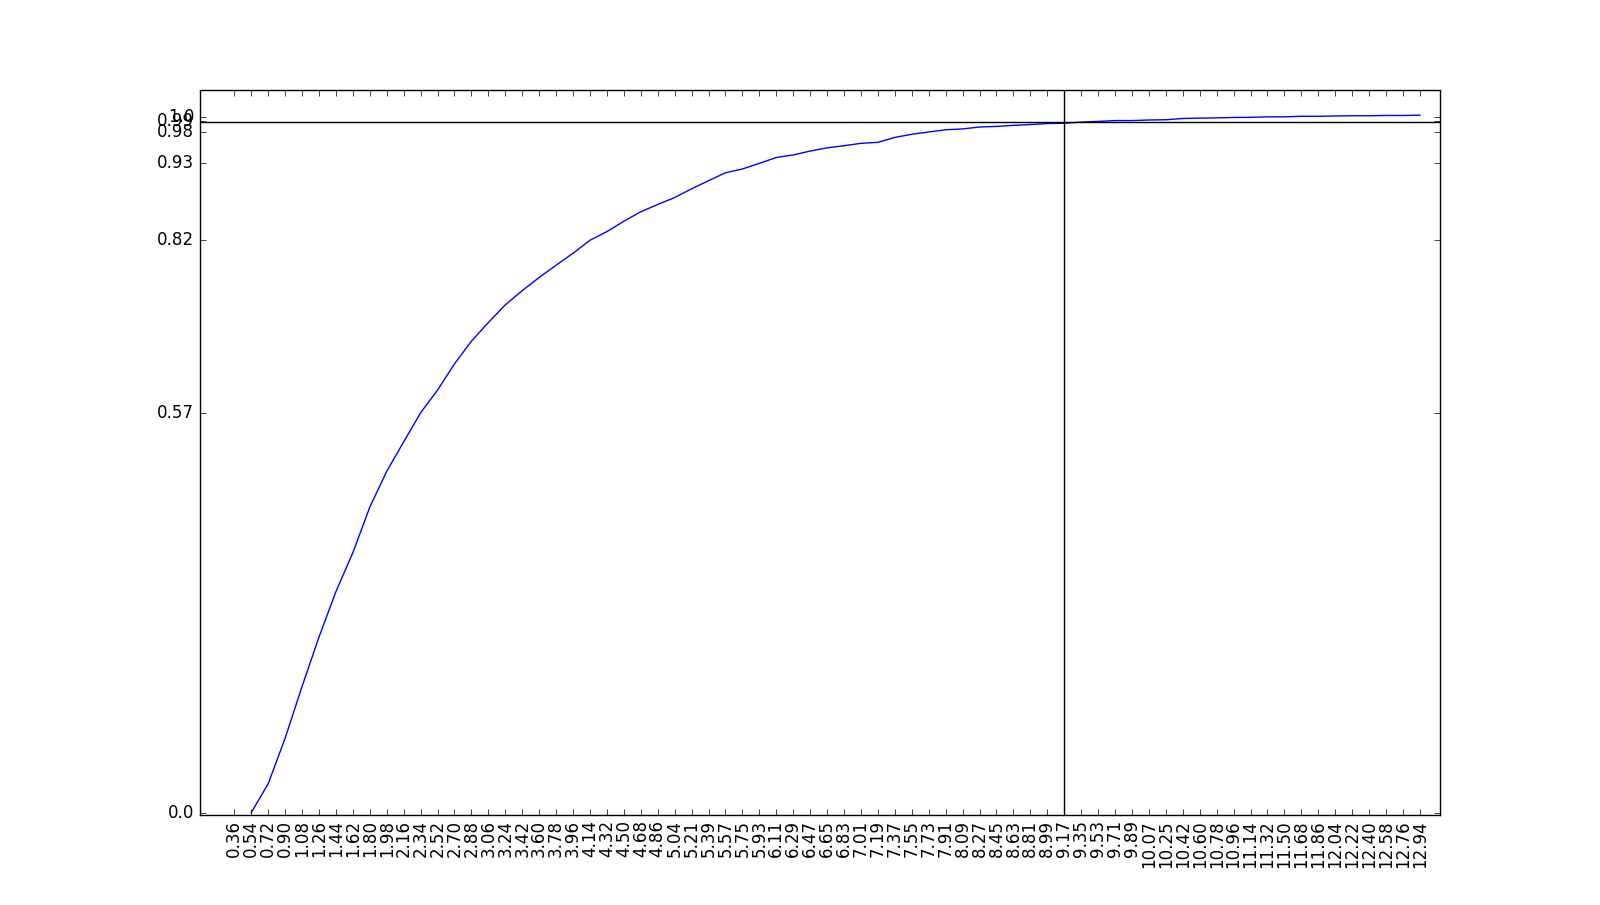
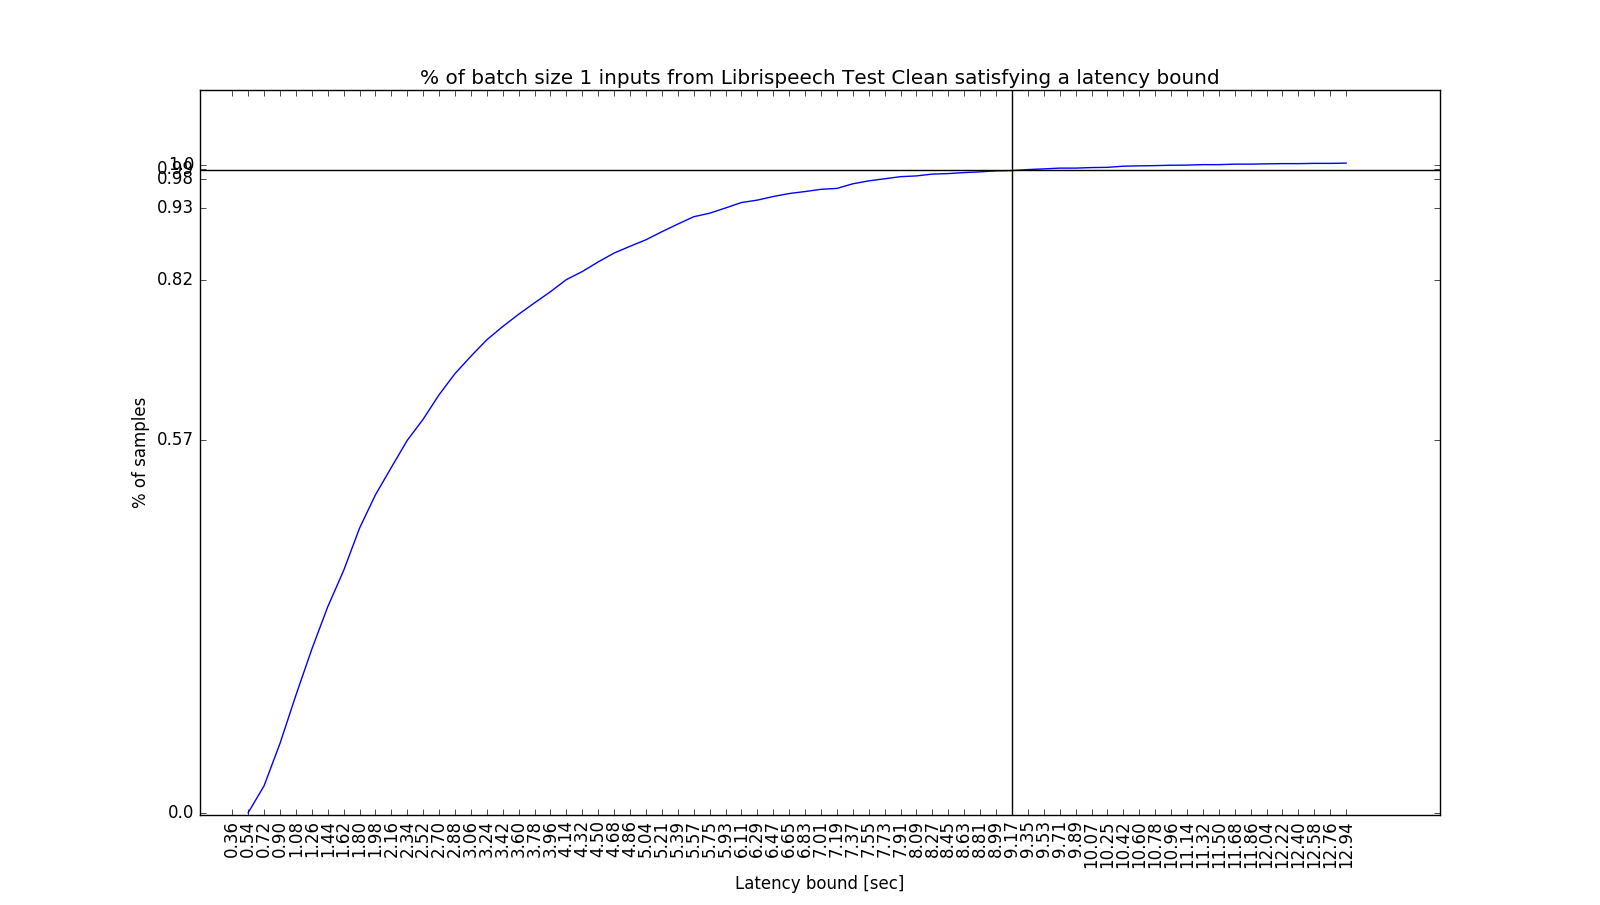
add axis labels to plots

diff --git a/speech_recognition/pytorch/results/inference/libri_test_clean_bs1/generate_plot.py b/speech_recognition/pytorch/results/inference/libri_test_clean_bs1/generate_plot.py
@@ -91,56 +91,58 @@ if __name__ == "__main__":
     assert (start > 0 and start < results_len-1), "data tag for results_file not found in valid position"
     runtime_res = runtime_res[start:]
 
-#     # 1. Plot the distribution of each sample's runtimes, plot the warmups runs in RED
-#     # 1b. Compute mean sample runtime and standard deviation (excluding warmups).
-#     print("Plotting distribution os sample runtimes")
-#     IDX = 0; DUR = 1; TIME =2;
-#     num_warmups = 50 
-#     data = dict()
-#     fig1 = plt.figure(1)
-#     ax = plt.subplot(1, 1, 1)
-#     for run_num, audioname in enumerate(run_num_to_audioname):
-#         color = 'r' 
-#         stat = list(audio_stats[audioname])
-#         stat.append(runtime_res[run_num])
-#         if run_num > num_warmups:
-#             color = 'b'
-#             # Update the data dictionary to compute error bars and print out a detailed summary
-#             idx = stat[IDX]
-#             if not idx in data:
-#                 data[idx] = {'series': [stat[TIME]],'n': 1, 'mean': stat[TIME], 'stddev': 0}
-#             else:
-#                 prev = data[idx]                
-#                 data[idx]['series'].append(stat[TIME])
-#                 data[idx]['n'] += 1
-#                 data[idx]['mean'] = sum(data[idx]['series']) / data[idx]['n']
-#                 data[idx]['stddev'] = np.std(data[idx]['series'])
-#         ax.plot(stat[IDX],stat[TIME],marker='o',c=color)
-# #         plt_show_no_blk(t=0.0001)
-#         sys.stdout.write("\r[{}/{}]         ".format(run_num, len(run_num_to_audioname)))
-#         sys.stdout.flush()
-#     print('Save data')
-#     data_output = osp.join(pwd, "sample_runtime.csv")
-#     make_file(data_output)
-#     write_line(data_output, "idx,n,mean,stddev,trials\n")
-#     for idx in data:
-#         series_str = ""
-#         for trial in data[idx]['series']:
-#             series_str = series_str + str(trial) + ","
-#         write_line(data_output, "{},{},{},{},{}\n".format(idx,data[idx]['n'],
-#                                                         data[idx]['mean'],
-#                                                         data[idx]['stddev'],
-#                                                         series_str))
-#         sys.stdout.write("\r[{}/{}]         ".format(idx, len(data)))
-#         sys.stdout.flush()
-#     print('Plot error bars')
-#     for idx in data:
-#         ax.errorbar(idx,data[idx]['mean'],yerr=data[idx]['stddev'])
-#     print('Showing plot (takes a while and blocks)')
-# #     plt.show()
-#     print('Saving Figures')
-# #     plt.savefig("sample_runtime.jpg")
-#     print('fin')
+    # 1. Plot the distribution of each sample's runtimes, plot the warmups runs in RED
+    # 1b. Compute mean sample runtime and standard deviation (excluding warmups).
+    IDX = 0; DUR = 1; TIME =2;
+    num_warmups = 50 
+    data = dict()
+    fig1 = plt.figure(1)
+    ax = plt.subplot(1, 1, 1)
+    for run_num, audioname in enumerate(run_num_to_audioname):
+        color = 'r' 
+        stat = list(audio_stats[audioname])
+        stat.append(runtime_res[run_num])
+        if run_num > num_warmups:
+            color = 'b'
+            # Update the data dictionary to compute error bars and print out a detailed summary
+            idx = stat[IDX]
+            if not idx in data:
+                data[idx] = {'series': [stat[TIME]],'n': 1, 'mean': stat[TIME], 'stddev': 0}
+            else:
+                prev = data[idx]                
+                data[idx]['series'].append(stat[TIME])
+                data[idx]['n'] += 1
+                data[idx]['mean'] = sum(data[idx]['series']) / data[idx]['n']
+                data[idx]['stddev'] = np.std(data[idx]['series'])
+        ax.plot(stat[IDX],stat[TIME],marker='o',c=color)
+#         plt_show_no_blk(t=0.0001)
+        sys.stdout.write("\r[{}/{}]         ".format(run_num, len(run_num_to_audioname)))
+        sys.stdout.flush()
+    print('Save data')
+    data_output = osp.join(pwd, "sample_runtime.csv")
+    make_file(data_output)
+    write_line(data_output, "idx,n,mean,stddev,trials\n")
+    for idx in data:
+        series_str = ""
+        for trial in data[idx]['series']:
+            series_str = series_str + str(trial) + ","
+        write_line(data_output, "{},{},{},{},{}\n".format(idx,data[idx]['n'],
+                                                        data[idx]['mean'],
+                                                        data[idx]['stddev'],
+                                                        series_str))
+        sys.stdout.write("\r[{}/{}]         ".format(idx, len(data)))
+        sys.stdout.flush()
+    print('Plot error bars')
+    for idx in data:
+        ax.errorbar(idx,data[idx]['mean'],yerr=data[idx]['stddev'])
+    plt.title('Sactter plot of inference trials and variances of Librispeech Test Clean inputs')
+    plt.xlabel('Idx of input')
+    plt.ylabel('Latency of inference trials')
+    print('Showing plot (takes a while and blocks)')
+#     plt.show()
+    print('Saving Figures')
+    plt.savefig("sample_runtime.jpg")
+    print('fin')
     
     # 2. Remove some x warmup runs then plot the CDF
     print('Generating histogram')
@@ -151,6 +153,9 @@ if __name__ == "__main__":
     fig2 = plt.figure(2)
     ax2 = plt.subplot(1, 1, 1)
     ax2.plot(bin_edges[1:],cdf)
+    plt.xlabel('Latency bound [sec]')
+    plt.ylabel('% of samples')
+    plt.title('% of batch size 1 inputs from Librispeech Test Clean satisfying a latency bound')
     plt.xticks(bin_edges,rotation=90)
     plt.yticks(cdf[::10], np.round(cdf/cdf[-1],2)[::10])
     plt.axhline(y=0.99*cdf[-1],xmin=0,xmax=bin_edges[-1],c='k')
@@ -174,6 +179,9 @@ if __name__ == "__main__":
     ax3 = plt.subplot(1,1,1)
     ax3.plot(bin_edges[1:],hist)
     plt.xticks(bin_edges,rotation=90)
+    plt.title('Audio clip duration Histogram for Librispeech Test Clean')
+    plt.xlabel('Duration of audio clip [sec]')
+    plt.ylabel('Count')
     print('Showing plot')
     plt.show()
     print('fin')
